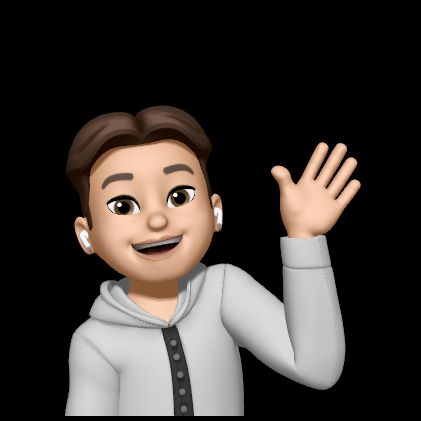
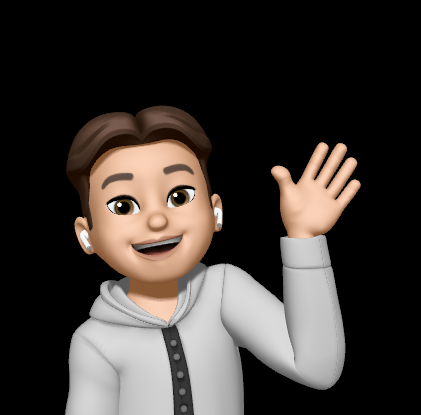
Design About tab

diff --git a/src/AboutLee.js b/src/AboutLee.js
@@ -1,6 +1,6 @@
 import React from "react";
-import "./css/AboutLee.css";
-import aboutImg from "./img/leehello2.png";
+import "./css/About.css";
+import aboutImg from "./img/leehello.png";
 
 function About() {
 
@@ -18,34 +18,34 @@ function About() {
             <img src={aboutImg} alt="" className="about__img"></img>
           </div>
           <div className="col__2">
-            <h1 className="about__heading">About me</h1>
+            <h1 className="about__heading">이 영 준</h1>
             <div className="about__meta">
-              <p className="about__text p__color">
+              <p className="about__text p__text">
+                1998년 7월 25일 경기도 수원 출생
+              </p>
+              <p className="about__text p__text">
+                4세 ~ 9세: 인도네시아 유학
+              </p>
+              <p className="about__text p__text">
                 10대: 유복한 집안에서 성장 후 성균관대학교 논술 입학
               </p>
-              <p className="about__text p__color">
+              <p className="about__text p__text">
                 20대: 몰입캠프 수강 후 정보 선생님으로 진로 결정
-                <p className="about__text p__color">-25세: 서울 중등 임용 수석 선발</p>
-
-                  
               </p>
-              <p className="about__text p__color">
-                wiggle wiggle wiggle wiggle
-              </p>
-              <div className="about__button d__flex align__items__center">
+              {/* <div className="about__button d__flex align__items__center">
                 <a href="#">
                   <button className="about btn pointer">Download Cvc</button>
                 </a>
                 <a href="#">
                   <button className="about btn pointer">Hire Me</button>
                 </a>
-              </div>
+              </div> */}
             </div>
           </div>
         </div>
       </div>
       {/* UP TO TOP BTN */}
-      <div className="up__to__top__btn">
+      {/* <div className="up__to__top__btn">
         <a href="#" className="bottom__to__top">
         <svg
           xmlns="http://www.w3.org/2000/svg"
@@ -61,7 +61,7 @@ function About() {
           />
         </svg>
         </a>
-      </div>
+      </div> */}
     </div>
   );
 }

diff --git a/src/AboutJeon.js b/src/AboutJeon.js
@@ -1,6 +1,6 @@
 import React from "react";
 import "./css/About.css";
-import aboutImg from "./img/junhello2.png";
+import aboutImg from "./img/junhello.png";
 
 function About() {
 
@@ -18,31 +18,34 @@ function About() {
             <img src={aboutImg} alt="" className="about__img"></img>
           </div>
           <div className="col__2">
-            <h1 className="about__heading">About me</h1>
+            <h1 className="about__heading">전 이 준</h1>
             <div className="about__meta">
-              <p className="about__text p__color">
-                wiggle wiggle wiggle wiggle
+              <p className="about__text p__text">
+                1998년 8월 13일 경상북도 구미시 출생
               </p>
-              <p className="about__text p__color">
-                wiggle wiggle wiggle wiggle
+              <p className="about__text p__text">
+              10대: 화목한 가정에서 성장하여 성균관대학교 글로벌 경영학과에 입학
               </p>
-              <p className="about__text p__color">
-                wiggle wiggle wiggle wiggle
+              <p className="about__text p__text">
+              20대: 경영에 흥미를 잃고 소프트웨어 복수전공을 시작
               </p>
-              <div className="about__button d__flex align__items__center">
+              <p className="about__text p__text">
+              25세: 몰입캠프 수강 중 벽을 느껴서 경영에 매진하기로 결심
+              </p>
+              {/* <div className="about__button d__flex align__items__center">
                 <a href="#">
                   <button className="about btn pointer">Download Cvc</button>
                 </a>
                 <a href="#">
                   <button className="about btn pointer">Hire Me</button>
                 </a>
-              </div>
+              </div> */}
             </div>
           </div>
         </div>
       </div>
       {/* UP TO TOP BTN */}
-      <div className="up__to__top__btn">
+      {/* <div className="up__to__top__btn">
         <a href="#" className="bottom__to__top">
         <svg
           xmlns="http://www.w3.org/2000/svg"
@@ -58,7 +61,7 @@ function About() {
           />
         </svg>
         </a>
-      </div>
+      </div> */}
     </div>
   );
 }

diff --git a/src/css/About.css b/src/css/About.css
@@ -9,8 +9,8 @@ h1.about__heading{
     margin-bottom: 10px;
     font-weight: 700;
     text-align: start;
-    font-family: Montserrat,sans-serif;
-    font-size: 60px;
+    font-family: 궁서,sans-serif;
+    font-size: 80px;
 }
 button.about.btn.pointer{
     text-transform: capitalize;
@@ -19,9 +19,19 @@ button.about.btn.pointer{
     font-size: 18px;
     transition: .4s ease;
 }
+.about__meta{
+    margin-top: 13%;
+}
 .about__button{
     padding: 20px 0px;
 }
+.p__text {
+    color: rgba(198,201,216,1);
+    font-size: 20px;
+    line-height: 35px;
+    font-family: 궁서,sans-serif;
+    margin-bottom: 25px;
+  }
 a.bottom__to__top{
     height: 40px;
     width: 40px;
@@ -56,3 +66,8 @@ a.bottom__to__top.active{
     }
 }
 
+
+.p__color{
+    font-size: 15px!important;
+    font-family:'Franklin Gothic Medium', 'Arial Narrow', Arial, sans-serif;
+}

diff --git a/src/About.js b/src/About.js
@@ -1,6 +1,6 @@
 import React from "react";
 import "./css/About.css";
-import aboutImg from "./img/junhello2.png";
+import aboutImg from "./img/junhello.png";
 
 function About() {
 
